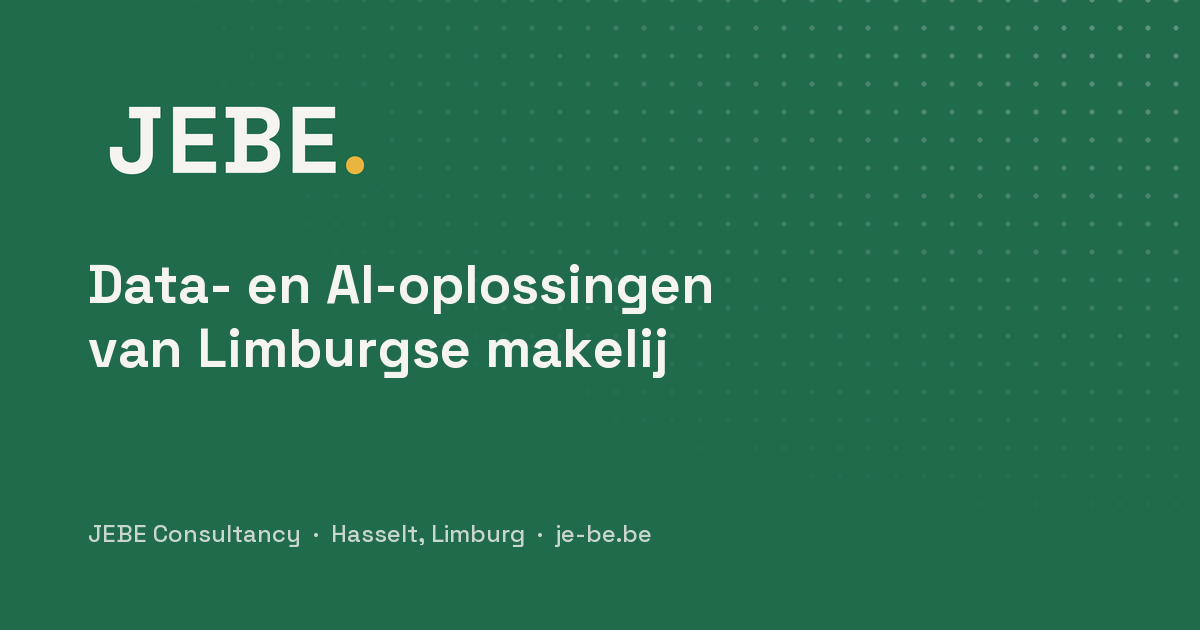
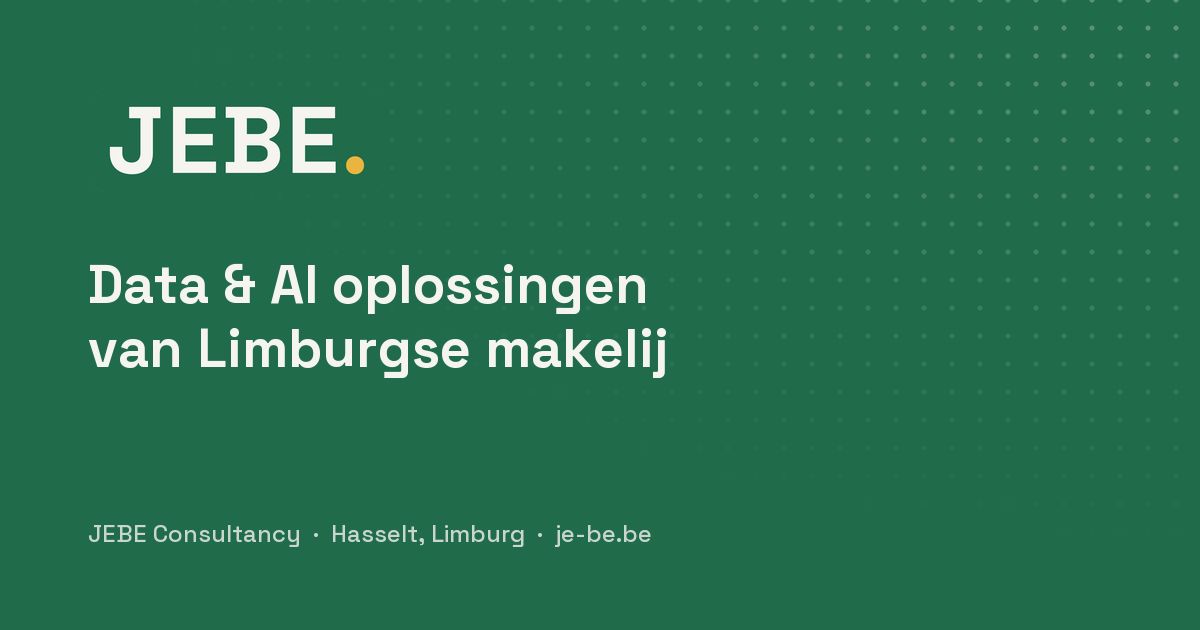
feat: nieuwe tagline zonder streepjes, herschreven hero en Over JEBE-titel
"Data- en AI-oplossingen" wordt overal "Data & AI oplossingen"
(title, OG-tags, JSON-LD, styleguide, referentiepagina, og-image).
Hero: eyebrow weg, H1 wordt de tagline, subtekst herschreven.
"De persoonlijke aanpak van Limburgse bodem" ingekort tot
"De persoonlijke aanpak".

Changed region(s): [[0.185, 0.4222, 0.6167, 0.5127]]

diff --git a/index.html b/index.html
@@ -3,7 +3,7 @@
 <head>
   <meta charset="UTF-8">
   <meta name="viewport" content="width=device-width, initial-scale=1.0">
-  <title>JEBE Consultancy | Data- en AI-oplossingen van Limburgse makelij</title>
+  <title>JEBE Consultancy | Data & AI oplossingen van Limburgse makelij</title>
   <meta name="description" content="JEBE Consultancy is de vaste data-partner voor Limburgse kmo's. Eén senior, van businessvraag tot werkend rapport. Eerst je cijfers op orde, dan pas AI.">
   <link rel="canonical" href="https://www.je-be.be/">
   <meta name="theme-color" content="#F5F4EF">
@@ -16,14 +16,14 @@
   <meta property="og:locale" content="nl_BE">
   <meta property="og:url" content="https://www.je-be.be/">
   <meta property="og:site_name" content="JEBE Consultancy">
-  <meta property="og:title" content="JEBE Consultancy | Data- en AI-oplossingen van Limburgse makelij">
+  <meta property="og:title" content="JEBE Consultancy | Data & AI oplossingen van Limburgse makelij">
   <meta property="og:description" content="JEBE Consultancy is de vaste data-partner voor Limburgse kmo's. Eén senior, van businessvraag tot werkend rapport. Eerst je cijfers op orde, dan pas AI.">
   <meta property="og:image" content="https://www.je-be.be/branding/assets/og-image.png">
   <meta property="og:image:width" content="1200">
   <meta property="og:image:height" content="630">
-  <meta property="og:image:alt" content="JEBE Consultancy - Data- en AI-oplossingen van Limburgse makelij">
+  <meta property="og:image:alt" content="JEBE Consultancy - Data & AI oplossingen van Limburgse makelij">
   <meta name="twitter:card" content="summary_large_image">
-  <meta name="twitter:title" content="JEBE Consultancy | Data- en AI-oplossingen van Limburgse makelij">
+  <meta name="twitter:title" content="JEBE Consultancy | Data & AI oplossingen van Limburgse makelij">
   <meta name="twitter:description" content="JEBE Consultancy is de vaste data-partner voor Limburgse kmo's. Eén senior, van businessvraag tot werkend rapport. Eerst je cijfers op orde, dan pas AI.">
   <meta name="twitter:image" content="https://www.je-be.be/branding/assets/og-image.png">
 
@@ -37,7 +37,7 @@
     "@type": "ProfessionalService",
     "name": "JEBE Consultancy",
     "alternateName": "JEBE Consultancy BV",
-    "description": "Data- en AI-oplossingen voor Limburgse kmo's: van businessvraag tot werkend rapport, eerst de cijfers op orde, dan pas AI.",
+    "description": "Data & AI oplossingen voor Limburgse kmo's: van businessvraag tot werkend rapport, eerst de cijfers op orde, dan pas AI.",
     "url": "https://www.je-be.be/",
     "logo": "https://www.je-be.be/assets/jebe-logo-a-hoofdvariant.svg",
     "image": "https://www.je-be.be/branding/assets/og-image.png",
@@ -207,9 +207,8 @@
   <section class="hero">
     <div class="container hero-container">
       <div class="hero-text">
-        <p class="eyebrow reveal">Data &amp; AI · Hasselt</p>
-        <h1 class="reveal reveal-delay-1">Eerst je cijfers op orde.<br><em>Dan pas AI.</em></h1>
-        <p class="hero-sub reveal reveal-delay-2">JEBE is de vaste data-partner voor Limburgse kmo's. Eén senior, van businessvraag tot werkend rapport. En ik zeg het je als iets het geld niet waard is.</p>
+        <h1 class="reveal reveal-delay-1">Data &amp; AI oplossingen<br>van Limburgse makelij</h1>
+        <p class="hero-sub reveal reveal-delay-2">JEBE is een partner voor Data &amp; AI oplossingen, gericht op Limburgse kmo's. Van businessvraag tot waardevolle dashboards en AI-geoptimaliseerde processen. En als iets het geld niet waard is, zeg ik je dat - eerlijkheid voor alles.</p>
       </div>
       <div class="hero-illustration reveal reveal-delay-2" aria-hidden="true">
         <svg viewBox="0 0 520 420" width="100%" height="100%">
@@ -261,7 +260,7 @@
       </div>
       <div class="about-text">
         <p class="eyebrow reveal">Over JEBE</p>
-        <h2 class="section-title reveal">De persoonlijke aanpak van Limburgse bodem</h2>
+        <h2 class="section-title reveal">De persoonlijke aanpak</h2>
         <p class="section-text reveal">JEBE Consultancy is het databedrijf van <!-- naammerk: gerenderd als paden, niet als crawlbare tekst --><svg xmlns="http://www.w3.org/2000/svg" viewBox="0 0 151.02 12.00" width="151.02" height="12.00" fill="#565D54" role="img" aria-label="JB" style="display:inline;vertical-align:baseline"><path d="M4.41402978515625 11.995200000000002Q2.6950567382812505 11.995200000000002 1.6878985839843752 11.02189255371094Q0.6807404296875001 10.048585107421877 0.6807404296875001 8.232000000000001V7.325982275390626H2.0872113281250004V8.232000000000001Q2.0872113281250004 9.33173759765625 2.6671517578125004 10.015504980468751Q3.2470921875000003 10.699272363281251 4.406471630859375 10.699272363281251Q5.575092919921876 10.699272363281251 6.064227319335938 10.01794079589844Q6.553361718750001 9.336609228515627 6.553361718750001 8.232000000000001V1.2764411132812494H4.489648242187501V0.0H9.232262402343752V1.2764411132812494H7.959832617187502V8.232000000000001Q7.959832617187502 10.063200000000002 7.058095385742188 11.029200000000003Q6.156358154296876 11.995200000000002 4.41402978515625 11.995200000000002Z"/><path d="M15.149229785156251 11.995200000000002Q13.894101416015626 11.995200000000002 12.956829785156252 11.466000000000001Q12.019558154296877 10.936800000000002 11.49632233886719 9.976764184570314Q10.973086523437502 9.016728369140626 10.973086523437502 7.754041845703126V7.552441845703126Q10.973086523437502 6.277826953125 11.493886523437503 5.323755322265626Q12.014686523437502 4.369683691406251 12.937593969726564 3.840483691406251Q13.860501416015627 3.311283691406251 15.055987939453129 3.311283691406251Q16.222746093750004 3.311283691406251 17.112053540039067 3.8095702148437507Q18.00136098632813 4.3078567382812505 18.505360986328128 5.22614326171875Q19.009360986328126 6.144429785156251 19.009360986328126 7.397373046875001V7.988560986328126H12.312357421875003Q12.357885791015626 9.322495751953127 13.159503881835938 10.068842211914063Q13.961121972656253 10.815188671875001 15.168716308593751 10.815188671875001Q16.23804184570313 10.815188671875001 16.80714645996094 10.333361718750002Q17.376251074218754 9.851534765625 17.67814965820313 9.178352490234376L18.824059570312503 9.727701416015627Q18.576931201171877 10.248000000000001 18.131731201171878 10.772328369140627Q17.686531201171878 11.296656738281252 16.971187939453127 11.645928369140627Q16.255844677734377 11.995200000000002 15.149229785156251 11.995200000000002ZM12.329157421875003 6.910352490234376H17.65816171875Q17.590961718750002 5.758531201171876 16.88174362792969 5.124913110351564Q16.17252553710938 4.49129501953125 15.051116308593752 4.49129501953125Q13.931892187500003 4.49129501953125 13.213181542968751 5.124913110351564Q12.494470898437502 5.758531201171876 12.329157421875003 6.910352490234376Z"/><path d="M21.320382275390628 11.760000000000002V3.54648369140625H22.61630991210938V4.5469255371093755H22.84713969726563Q23.067724804687504 4.0071404296875 23.519981542968754 3.760012060546875Q23.972238281250004 3.51288369140625 24.72236381835938 3.51288369140625H25.694578710937503V4.72649501953125H24.629121972656254Q23.739223388671878 4.72649501953125 23.194566650390627 5.220501049804688Q22.64990991210938 5.714507080078126 22.64990991210938 6.759975878906251V11.760000000000002Z"/><path d="M31.448919140625005 11.995200000000002Q30.205719140625003 11.995200000000002 29.25626843261719 11.473307446289065Q28.306817724609378 10.951414892578127 27.777367016601566 9.999779077148439Q27.247916308593755 9.048143261718751 27.247916308593755 7.763785107421876V7.542698583984376Q27.247916308593755 6.258340429687501 27.777367016601566 5.306704614257813Q28.306817724609378 4.355068798828126 29.25626843261719 3.8331762451171882Q30.205719140625003 3.311283691406251 31.448919140625005 3.311283691406251Q32.692119140625 3.311283691406251 33.64156984863281 3.8331762451171882Q34.59102055664063 4.355068798828126 35.120471264648444 5.306704614257813Q35.64992197265626 6.258340429687501 35.64992197265626 7.542698583984376V7.763785107421876Q35.64992197265626 9.048143261718751 35.120471264648444 9.999779077148439Q34.59102055664063 10.951414892578127 33.64156984863281 11.473307446289065Q32.692119140625 11.995200000000002 31.448919140625005 11.995200000000002ZM31.448919140625005 10.805445410156251Q32.7573134765625 10.805445410156251 33.538853906250004 9.972663134765625Q34.32039433593751 9.139880859375001 34.32039433593751 7.725313476562501V7.581170214843751Q34.32039433593751 6.166602832031251 33.54128972167969 5.333820556640626Q32.76218510742188 4.5010382812500005 31.448919140625005 4.5010382812500005Q30.15245317382813 4.5010382812500005 29.364948559570315 5.333820556640626Q28.577443945312503 6.166602832031251 28.577443945312503 7.581170214843751V7.725313476562501Q28.577443945312503 9.139880859375001 29.364948559570315 9.972663134765625Q30.15245317382813 10.805445410156251 31.448919140625005 10.805445410156251Z"/><path d="M41.801086523437505 11.995200000000002Q40.54595815429688 11.995200000000002 39.60868652343751 11.466000000000001Q38.671414892578134 10.936800000000002 38.14817907714844 9.976764184570314Q37.624943261718755 9.016728369140626 37.624943261718755 7.754041845703126V7.552441845703126Q37.624943261718755 6.277826953125 38.145743261718756 5.323755322265626Q38.66654326171876 4.369683691406251 39.58945070800782 3.840483691406251Q40.512358154296884 3.311283691406251 41.707844677734386 3.311283691406251Q42.87460283203126 3.311283691406251 43.763910278320324 3.8095702148437507Q44.653217724609384 4.3078567382812505 45.15721772460938 5.22614326171875Q45.661217724609386 6.144429785156251 45.661217724609386 7.397373046875001V7.988560986328126H38.96421416015626Q39.00974252929688 9.322495751953127 39.81136062011719 10.068842211914063Q40.612978710937504 10.815188671875001 41.820573046875005 10.815188671875001Q42.88989858398438 10.815188671875001 43.4590031982422 10.333361718750002Q44.02810781250001 9.851534765625 44.330006396484386 9.178352490234376L45.47591630859376 9.727701416015627Q45.228787939453134 10.248000000000001 44.783587939453135 10.772328369140627Q44.338387939453135 11.296656738281252 43.623044677734384 11.645928369140627Q42.907701416015634 11.995200000000002 41.801086523437505 11.995200000000002ZM38.981014160156256 6.910352490234376H44.310018457031255Q44.242818457031255 5.758531201171876 43.53360036621095 5.124913110351564Q42.82438227539063 4.49129501953125 41.70297304687501 4.49129501953125Q40.58374892578126 4.49129501953125 39.86503828125001 5.124913110351564Q39.14632763671876 5.758531201171876 38.981014160156256 6.910352490234376Z"/><path d="M47.97223901367189 11.760000000000002V3.54648369140625H49.26816665039063V4.936692919921875H49.498996435546886Q49.77216665039064 4.34482412109375 50.42199360351564 3.8665255371093754Q51.07182055664064 3.3882269531250007 52.32863261718751 3.3882269531250007Q53.243390771484385 3.3882269531250007 53.9801549560547 3.779749291992188Q54.71691914062501 4.171271630859375 55.14994006347657 4.928614892578126Q55.58296098632813 5.685958154296876 55.58296098632813 6.787200000000001V11.760000000000002H54.25343334960939V6.883629785156251Q54.25343334960939 5.656548925781251 53.64232873535157 5.102650341796876Q53.03122412109376 4.548751757812501 51.98357021484376 4.548751757812501Q50.80638793945314 4.548751757812501 50.05407729492188 5.326763818359376Q49.30176665039063 6.104775878906251 49.30176665039063 7.633755322265626V11.760000000000002Z"/><path d="M61.994185107421885 11.760000000000002V10.50304541015625H63.635212060546884V1.2569545898437493H61.994185107421885V0.0H67.88711630859376Q68.91460283203126 0.0 69.70663864746095 0.36716418457031264Q70.49867446289063 0.7343283691406253 70.94387446289063 1.397928369140625Q71.38907446289063 2.0615283691406248 71.38907446289063 2.9497432617187496V3.093886523437501Q71.38907446289063 3.9122148925781257 71.07474609375001 4.4425074462890635Q70.76041772460938 4.9728 70.31899680175782 5.267892553710938Q69.87757587890626 5.562985107421875 69.46026240234376 5.6925134765625005V5.923343261718751Q69.87757587890626 6.024143261718751 70.3322684326172 6.325200000000001Q70.78696098632814 6.626256738281251 71.09776098632814 7.158985107421875Q71.40856098632814 7.691713476562501 71.40856098632814 8.519785107421876V8.687785107421876Q71.40856098632814 9.650256738281252 70.94899680175783 10.341492553710939Q70.4894326171875 11.032728369140626 69.6914326171875 11.396364184570313Q68.89343261718751 11.760000000000002 67.87081772460938 11.760000000000002ZM65.04168295898438 10.483558886718752H67.72130141601563Q68.82540922851564 10.483558886718752 69.41374965820313 9.963761718750002Q70.00209008789064 9.443964550781251 70.00209008789064 8.55019716796875V8.406053906250001Q70.00209008789064 7.512286523437501 69.41618547363282 6.99248935546875Q68.83028085937501 6.472692187500001 67.72130141601563 6.472692187500001H65.04168295898438ZM65.04168295898438 5.19625107421875H67.75927163085939Q68.78206596679689 5.19625107421875 69.38233476562502 4.682418090820313Q69.98260356445314 4.168585107421875 69.98260356445314 3.3203460937500004V3.152346093750001Q69.98260356445314 2.2992354492187506 69.38477058105471 1.78783828125Q68.78693759765626 1.2764411132812494 67.75927163085939 1.2764411132812494H65.04168295898438Z"/><path d="M77.46866879882813 11.995200000000002Q76.2135404296875 11.995200000000002 75.27626879882813 11.466000000000001Q74.33899716796876 10.936800000000002 73.81576135253907 9.976764184570314Q73.29252553710938 9.016728369140626 73.29252553710938 7.754041845703126V7.552441845703126Q73.29252553710938 6.277826953125 73.81332553710938 5.323755322265626Q74.33412553710937 4.369683691406251 75.25703298339843 3.840483691406251Q76.1799404296875 3.311283691406251 77.375426953125 3.311283691406251Q78.54218510742189 3.311283691406251 79.43149255371094 3.8095702148437507Q80.3208 4.3078567382812505 80.82480000000001 5.22614326171875Q81.3288 6.144429785156251 81.3288 7.397373046875001V7.988560986328126H74.63179643554687Q74.6773248046875 9.322495751953127 75.47894289550781 10.068842211914063Q76.28056098632813 10.815188671875001 77.48815532226563 10.815188671875001Q78.557480859375 10.815188671875001 79.12658547363282 10.333361718750002Q79.69569008789063 9.851534765625 79.99758867187501 9.178352490234376L81.14349858398438 9.727701416015627Q80.89637021484376 10.248000000000001 80.45117021484376 10.772328369140627Q80.00597021484376 11.296656738281252 79.29062695312501 11.645928369140627Q78.57528369140626 11.995200000000002 77.46866879882813 11.995200000000002ZM74.64859643554688 6.910352490234376H79.97760073242188Q79.91040073242188 5.758531201171876 79.20118264160158 5.124913110351564Q78.49196455078126 4.49129501953125 77.37055532226563 4.49129501953125Q76.25133120117188 4.49129501953125 75.53262055664064 5.124913110351564Q74.81390991210938 5.758531201171876 74.64859643554688 6.910352490234376Z"/><path d="M86.79116455078126 11.91825673828125Q85.888334765625 11.91825673828125 85.14560639648438 11.526734399414064Q84.40287802734376 11.135212060546877 83.9698571044922 10.37543298339844Q83.53683618164064 9.615653906250001 83.53683618164064 8.519283691406251V3.54648369140625H84.86636381835939V8.422853906250001Q84.86636381835939 9.638006396484377 85.4774684326172 10.197869165039064Q86.08857304687501 10.757731933593751 87.136226953125 10.757731933593751Q88.31340922851564 10.757731933593751 89.06571987304689 9.979719873046875Q89.81803051757814 9.2017078125 89.81803051757814 7.672728369140626V3.54648369140625H91.14755815429689V11.760000000000002H89.85163051757813V10.369790771484377H89.62080073242188Q89.34763051757814 10.956787939453127 88.69780356445314 11.43752233886719Q88.04797661132814 11.91825673828125 86.79116455078126 11.91825673828125Z"/><path d="M93.92897944335938 11.760000000000002V3.54648369140625H95.22490708007813V4.936692919921875H95.45573686523437Q95.72890708007813 4.34482412109375 96.37873403320313 3.8665255371093754Q97.02856098632813 3.3882269531250007 98.28537304687501 3.3882269531250007Q99.20013120117189 3.3882269531250007 99.93689538574219 3.779749291992188Q100.67365957031251 4.171271630859375 101.10668049316408 4.928614892578126Q101.53970141601563 5.685958154296876 101.53970141601563 6.787200000000001V11.760000000000002H100.21017377929688V6.883629785156251Q100.21017377929688 5.656548925781251 99.59906916503907 5.102650341796876Q98.98796455078126 4.548751757812501 97.94031064453125 4.548751757812501Q96.76312836914063 4.548751757812501 96.01081772460938 5.326763818359376Q95.25850708007813 6.104775878906251 95.25850708007813 7.633755322265626V11.760000000000002Z"/><path d="M108.01325390625001 11.995200000000002Q106.81558227539064 11.995200000000002 105.8685673828125 11.48523581542969Q104.92155249023438 10.975271630859377 104.37420922851564 10.017671630859375Q103.82686596679689 9.060071630859376 103.82686596679689 7.746985107421876V7.559498583984376Q103.82686596679689 6.2344836914062505 104.37420922851564 5.282847875976563Q104.92155249023438 4.331212060546876 105.8685673828125 3.8212478759765633Q106.81558227539064 3.311283691406251 108.01325390625001 3.311283691406251Q109.19412553710939 3.311283691406251 110.02110461425782 3.749176245117188Q110.84808369140626 4.187068798828125 111.32957021484376 4.905940429687501Q111.81105673828125 5.624812060546875 111.94327163085939 6.453385107421876L110.64515888671876 6.723187939453126Q110.56603051757813 6.111832617187501 110.25926030273439 5.607241479492188Q109.95249008789064 5.102650341796876 109.39884221191407 4.801844311523438Q108.8451943359375 4.5010382812500005 108.02786879882814 4.5010382812500005Q107.21054326171875 4.5010382812500005 106.56096701660157 4.873665234375Q105.91139077148438 5.246292187500001 105.53389218750002 5.935432617187501Q105.15639360351564 6.624573046875001 105.15639360351564 7.581170214843751V7.725313476562501Q105.15639360351564 8.681910644531252 105.53389218750002 9.371051074218752Q105.91139077148438 10.060191503906251 106.56096701660157 10.432818457031251Q107.21054326171875 10.805445410156251 108.02786879882814 10.805445410156251Q109.2598212890625 10.805445410156251 109.90452590332032 10.16670498046875Q110.54923051757814 9.52796455078125 110.70748725585938 8.57842412109375L112.00560000000002 8.862841845703127Q111.8349134765625 9.681671630859377 111.34149858398439 10.400543261718752Q110.84808369140626 11.119414892578126 110.02110461425782 11.557307446289064Q109.19412553710939 11.995200000000002 108.01325390625001 11.995200000000002Z"/><path d="M114.27764824218751 11.760000000000002V0.0H115.60717587890626V6.919092919921876H115.8380056640625L119.60711704101563 3.54648369140625H121.45576098632813L116.90478720703126 7.542698583984376L121.59016098632813 11.760000000000002H119.76318867187501L115.8380056640625 8.18797587890625H115.60717587890626V11.760000000000002Z"/><path d="M127.08444184570314 11.995200000000002Q125.8293134765625 11.995200000000002 124.89204184570313 11.466000000000001Q123.95477021484376 10.936800000000002 123.43153439941408 9.976764184570314Q122.90829858398439 9.016728369140626 122.90829858398439 7.754041845703126V7.552441845703126Q122.90829858398439 6.277826953125 123.42909858398438 5.323755322265626Q123.94989858398438 4.369683691406251 124.87280603027344 3.840483691406251Q125.79571347656251 3.311283691406251 126.9912 3.311283691406251Q128.1579581542969 3.311283691406251 129.04726560058594 3.8095702148437507Q129.93657304687503 4.3078567382812505 130.44057304687502 5.22614326171875Q130.944573046875 6.144429785156251 130.944573046875 7.397373046875001V7.988560986328126H124.24756948242188Q124.29309785156251 9.322495751953127 125.09471594238282 10.068842211914063Q125.89633403320313 10.815188671875001 127.10392836914063 10.815188671875001Q128.17325390625 10.815188671875001 128.74235852050782 10.333361718750002Q129.31146313476563 9.851534765625 129.61336171875 9.178352490234376L130.7592716308594 9.727701416015627Q130.51214326171876 10.248000000000001 130.06694326171876 10.772328369140627Q129.62174326171876 11.296656738281252 128.90640000000002 11.645928369140627Q128.19105673828125 11.995200000000002 127.08444184570314 11.995200000000002ZM124.26436948242188 6.910352490234376H129.59337377929688Q129.5261737792969 5.758531201171876 128.81695568847658 5.124913110351564Q128.10773759765627 4.49129501953125 126.98632836914064 4.49129501953125Q125.86710424804689 4.49129501953125 125.14839360351564 5.124913110351564Q124.42968295898439 5.758531201171876 124.26436948242188 6.910352490234376Z"/><path d="M133.2555943359375 11.760000000000002V3.54648369140625H134.55152197265625V4.936692919921875H134.7823517578125Q135.05552197265624 4.34482412109375 135.70534892578124 3.8665255371093754Q136.35517587890624 3.3882269531250007 137.61198793945312 3.3882269531250007Q138.52674609375 3.3882269531250007 139.26351027832033 3.779749291992188Q140.00027446289062 4.171271630859375 140.43329538574218 4.928614892578126Q140.86631630859375 5.685958154296876 140.86631630859375 6.787200000000001V11.760000000000002H139.536788671875V6.883629785156251Q139.536788671875 5.656548925781251 138.9256840576172 5.102650341796876Q138.31457944335938 4.548751757812501 137.2669255371094 4.548751757812501Q136.08974326171875 4.548751757812501 135.33743261718752 5.326763818359376Q134.58512197265625 6.104775878906251 134.58512197265625 7.633755322265626V11.760000000000002Z"/><path d="M146.8624120605469 11.995200000000002Q145.3401673828125 11.995200000000002 144.2926031982422 11.289600000000002Q143.24503901367189 10.584000000000001 143.01471064453125 9.046960986328127L144.28359360351564 8.7696Q144.41312197265626 9.572310644531251 144.78574892578126 10.033558520507814Q145.15837587890624 10.494806396484377 145.70118793945312 10.691284057617189Q146.244 10.887761718750001 146.8624120605469 10.887761718750001Q147.79246596679687 10.887761718750001 148.33015568847657 10.520006396484376Q148.86784541015626 10.152251074218752 148.86784541015626 9.52728369140625Q148.86784541015626 8.890387939453126 148.35888405761722 8.626710278320314Q147.84992270507814 8.363032617187502 146.95565390625 8.20477587890625L146.27054326171876 8.084990771484376Q145.4685134765625 7.940847509765626 144.81768369140624 7.658775878906251Q144.16685390625 7.376704248046876 143.7837315673828 6.891689355468751Q143.40060922851563 6.406674462890626 143.40060922851563 5.666973046875Q143.40060922851563 4.554985107421875 144.2541315673828 3.933134399414063Q145.10765390625 3.311283691406251 146.51448369140624 3.311283691406251Q147.90888369140626 3.311283691406251 148.77920603027343 3.9388478759765633Q149.64952836914063 4.566412060546876 149.88741489257814 5.70562412109375L148.64944541015626 6.024143261718751Q148.491188671875 5.147175878906251 147.92451987304688 4.78294892578125Q147.35785107421876 4.41872197265625 146.51448369140624 4.41872197265625Q145.6830446777344 4.41872197265625 145.19684750976563 4.730113110351563Q144.71065034179688 5.041504248046875 144.71065034179688 5.637743261718751Q144.71065034179688 6.231797167968751 145.16593403320314 6.5084957519531255Q145.62121772460938 6.785194335937501 146.40712836914062 6.921779443359376L147.09223901367187 7.041564550781251Q147.96146879882812 7.1857078125000005 148.66026276855467 7.450979443359376Q149.35905673828125 7.716251074218751 149.76847163085938 8.198830151367188Q150.1778865234375 8.681409228515626 150.1778865234375 9.483439013671877Q150.1778865234375 10.686483691406252 149.28236418457033 11.340841845703128Q148.38684184570312 11.995200000000002 146.8624120605469 11.995200000000002Z"/></svg> uit Hasselt. Negen jaar lang bouwde ik dataplatformen en rapportering voor multinationals en kmo's in zes sectoren. Die ervaring breng ik nu naar de Limburgse kmo: geen team van juniors, geen account manager ertussen. Wie aan tafel zit, bouwt het ook.</p>
         <p class="section-text reveal">Ik praat met de mensen die met de cijfers werken - je planner, je boekhouder, je productieleider - en lever end-to-end: van architectuur tot werkend rapport. Met technologie die past bij jullie schaal, en zo robuust gebouwd dat je er nadien geen omkijken naar hebt.</p>
       </div>

diff --git a/branding/brand-reference.html b/branding/brand-reference.html
@@ -682,7 +682,7 @@
         <p class="mock-note">Of rechtstreeks: info@je-be.be · Hasselt</p>
       </div>
 
-      <div class="mock-tagline">Data- en AI-oplossingen van Limburgse makelij</div>
+      <div class="mock-tagline">Data & AI oplossingen van Limburgse makelij</div>
     </div>
   </div>
 

diff --git a/branding/assets/generate_og.py b/branding/assets/generate_og.py
@@ -70,7 +70,7 @@ def build():
     foot_font = instantiated_font(500, 24)
 
     y = MARGIN + logo_h + 56
-    for line in ["Data- en AI-oplossingen", "van Limburgse makelij"]:
+    for line in ["Data & AI oplossingen", "van Limburgse makelij"]:
         draw.text((MARGIN, y), line, font=tagline_font, fill=PAPER)
         y += 64
 

diff --git a/branding/brand-styleguide.md b/branding/brand-styleguide.md
@@ -6,7 +6,7 @@ Dit is de opvolger van de vorige (donkere) styleguide.
 De stijl is licht en nuchter: warm papier als canvas, dennengroen als stem, honinggeel als blikvanger.
 Ontworpen tijdens werf 2 van het [uitrolplan](../plans/2026-07-07-uitrolplan.md), op basis van de positionering in het [design-document](../specs/2026-07-06-jebe-kmo-positionering-design.md).
 
-Typeface: **Space Grotesk** (Google Fonts) · Site: **je-be.be** · Tagline: **"Data- en AI-oplossingen van Limburgse makelij"**
+Typeface: **Space Grotesk** (Google Fonts) · Site: **je-be.be** · Tagline: **"Data & AI oplossingen van Limburgse makelij"**
 
 ---
 
@@ -252,4 +252,4 @@ Bestanden: `assets/favicon.svg` (bron) plus PNG's op 16, 32, 180 en 512 pixels; 
 ---
 
 *JEBE Consultancy · Jeroen Beunckens · Hasselt · je-be.be*
-*Data- en AI-oplossingen van Limburgse makelij.*
+*Data & AI oplossingen van Limburgse makelij.*
